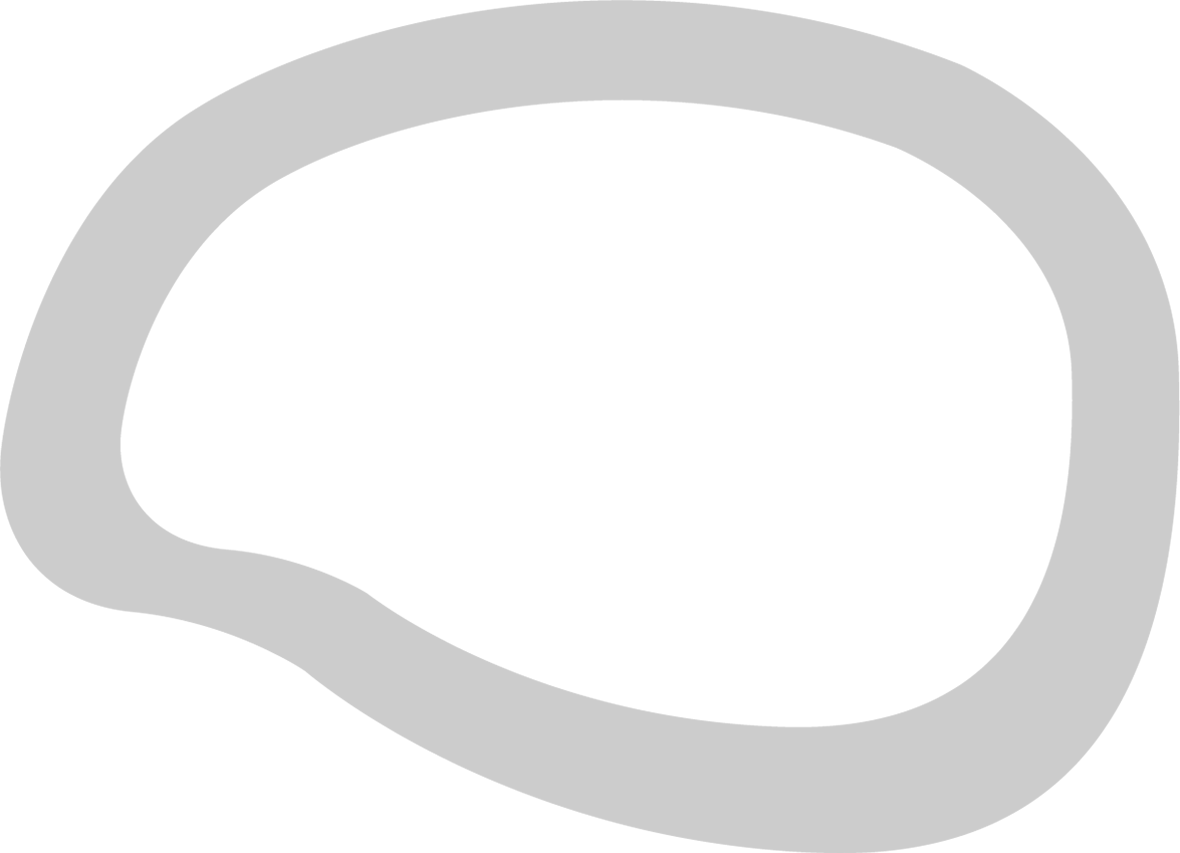
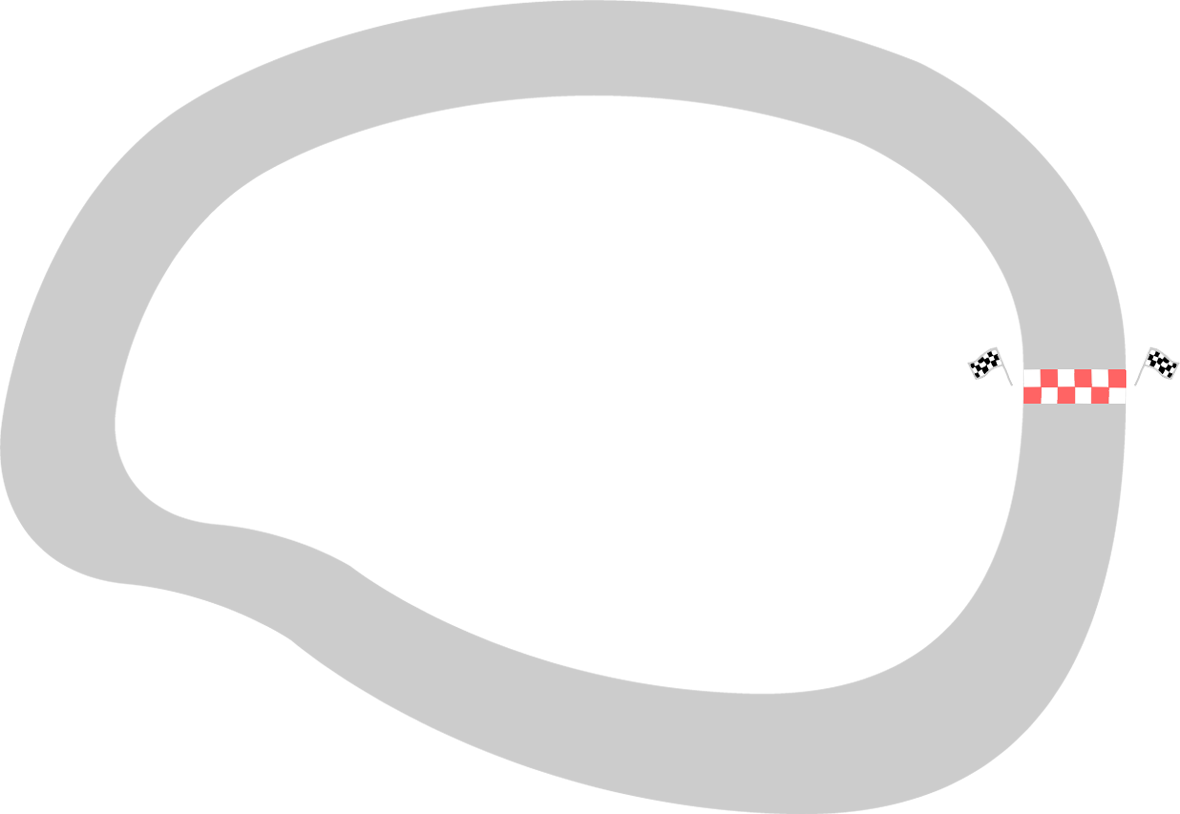
portfolio영역 이미지 수정 and 기타 이미지 교체 및 삭제

diff --git a/index.html b/index.html
@@ -143,7 +143,7 @@
 
           <div class="container desktop-only">
             <div class="track">
-              <img src="./images/track2.png" alt="">
+              <img src="./images/track.png" alt="">
             </div>
           </div> <!-- container -->
 
@@ -331,7 +331,7 @@
           <div class="pofol-box pofol-box1 left">
             <div class="flexbox">
               <div class="pofol-thumbnail">
-                <img src="images/safariMockup1.png" alt="">
+                <img src="images/minumsa.png" alt="">
               </div> <!-- pofol-thumbnail -->
 
               <div class="pofol-info">
@@ -373,13 +373,14 @@
           <div class="pofol-box pofol-box3 left">
             <div class="flexbox">
               <div class="pofol-thumbnail">
-                <img src="images/grass.png" alt="aaaaaaaaaaaa이미지변경하기aaaaaaaaaaaaaaaaa">
+                <img src="images/profile.png" alt="">
               </div>
               <div class="pofol-info">
                 <div>03</div>
                 <div class="pofol-title">프로필 포트폴리오</div>
                 <div class="pofol-des">
-                  '주어진 트랙을 열심히 달린다.'는 컨셉으로 제작해본 페이지 입니다. 간단한 자기소개와 학습한 기술, 작업물 소개로 구성되어있습니다.
+                  '나'를 소개하는 페이지 입니다.
+                  간단한 자기소개와 학습한 기술, 작업물 소개로 구성되어있습니다.
                 </div>
                 <div class="modal-btn">
                   <button>디자인 가이드</button>
@@ -392,7 +393,7 @@
           <div class="pofol-box pofol-box4 right">
             <div class="flexbox">
               <div class="pofol-thumbnail">
-                <img src="images/grass.png" alt="aaaaaaaaaaaa이미지변경하기aaaaaaaaaaaaaaaaa">
+                <img src="images/coffeecat.png" alt="">
               </div>
               <div class="pofol-info">
                 <div>04</div>
